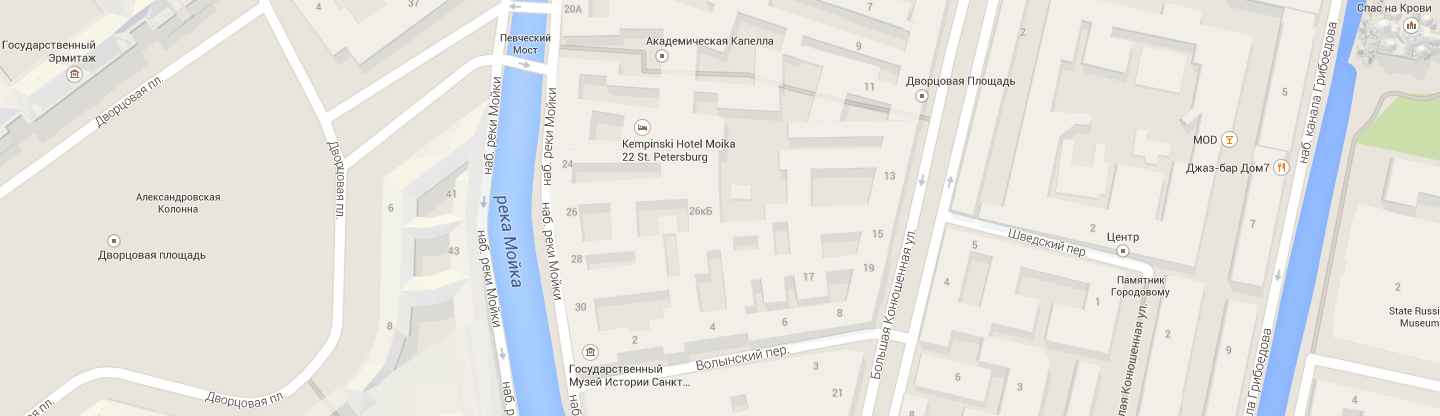
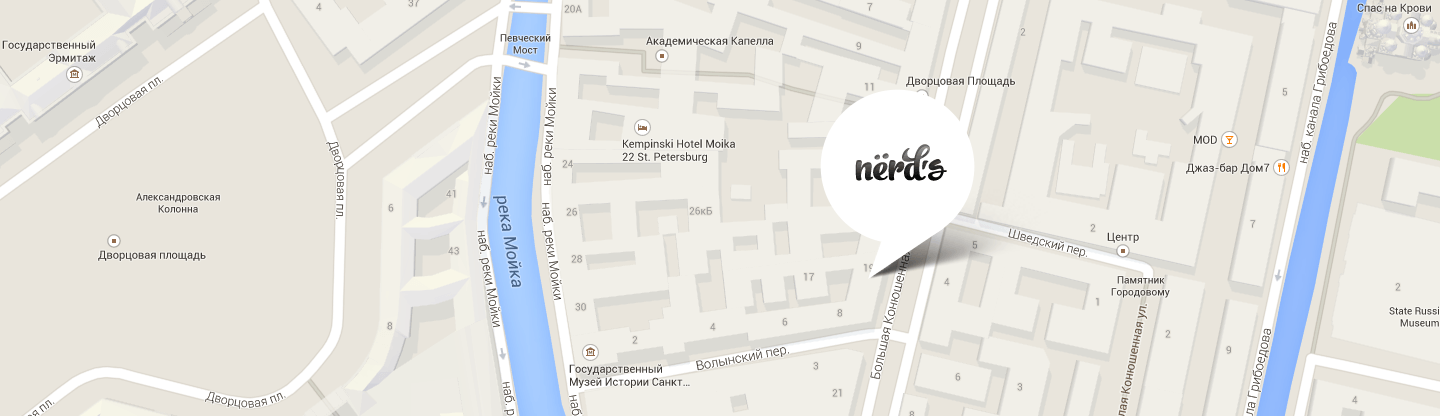
Финальные правки v.7

Changed region(s): [[0.5625, 0.2188, 0.6875, 0.6562]]

diff --git a/catalog.html b/catalog.html
@@ -10,11 +10,9 @@
   <body>
     <header class="page-header">
       <nav class="navigation">
-        <div class="navigation-logo">
-          <a class="navigation-logo__link" href="index.html">
-            <img src="img/svg/nerds-logo.svg" width="160" height="65" alt="Логотип Дизайн-студии «Нёрдс»">
-          </a>
-        </div>
+        <a class="navigation-logo__link" href="index.html">
+          <img src="img/svg/nerds-logo.svg" width="160" height="65" alt="Логотип Дизайн-студии «Нёрдс»">
+        </a>
         <ul class="navigation__list">
           <li class="navigation__item"><a class="navigation__link" href="">Студия</a></li>
           <li class="navigation__item"><a class="navigation__link" href="">Клиенты</a></li>
@@ -201,6 +199,14 @@
 
         <h2 class="visually-hidden">Контактная информация</h2>
         
+        <div class="contacts__map-container">
+          <img src="img/map/map.png" width="1440" height="416" alt="Дизайн-студия NЁRDS расположена по адресу г. Санкт-Петербург, ул. Б. Конюшенная, д. 19/8">
+        </div>
+
+        <iframe class="contacts__map" src="https://www.google.com/maps/embed?pb=!1m18!1m12!1m3!1d1998.6037872533248!2d30.320858716177124!3d59.93871648187619!2m3!1f0!2f0!3f0!3m2!1i1024!2i768!4f13.1!3m3!1m2!1s0x4696310fca145cc1%3A0x42b32648d8238007!2z0JHQvtC70YzRiNCw0Y8g0JrQvtC90Y7RiNC10L3QvdCw0Y8g0YPQuy4sIDE5LzgsINCh0LDQvdC60YIt0J_QtdGC0LXRgNCx0YPRgNCzLCAxOTExODY!5e0!3m2!1sru!2sru!4v1581432568932!5m2!1sru!2sru" 
+        allowfullscreen="">
+        </iframe>
+
         <div class="container">
           <div class="contacts__container">
             <div class="feedback">
@@ -211,12 +217,7 @@
               <a class="button feedback__button" href="">Напишите нам</a>
             </div>
           </div> 
-        </div>
-        
-        <iframe class="map" src="https://www.google.com/maps/embed?pb=!1m18!1m12!1m3!1d1998.6037872533248!2d30.320858716177124!3d59.93871648187619!2m3!1f0!2f0!3f0!3m2!1i1024!2i768!4f13.1!3m3!1m2!1s0x4696310fca145cc1%3A0x42b32648d8238007!2z0JHQvtC70YzRiNCw0Y8g0JrQvtC90Y7RiNC10L3QvdCw0Y8g0YPQuy4sIDE5LzgsINCh0LDQvdC60YIt0J_QtdGC0LXRgNCx0YPRgNCzLCAxOTExODY!5e0!3m2!1sru!2sru!4v1581432568932!5m2!1sru!2sru" 
-        allowfullscreen="">
-        </iframe>
-        <img class="visually-hidden map-img" src="img/map.png" alt="Дизайн-студия NЁRDS расположена по адресу г. Санкт-Петербург, ул. Б. Конюшенная, д. 19/8">
+        </div> 
       </section>
     </main>
     <!-- Footer - Подвал -->
@@ -225,19 +226,18 @@
         <p class="prompt__appeal">Давайте дружить, это выгодно!</p>
         <p class="prompt__discount">Скидка 10% для друзей из социальных сетей.</p>
       </div>
-      <div class="socials">
-        <ul class="socials__list">
-          <li class="socials__item">
-            <a class="socials__link socials__link--vk" href=""></a>
-          </li>
-          <li class="socials__item">
-            <a class="socials__link socials__link--fb" href=""></a>
-          </li>
-          <li class="socials__item">
-            <a class="socials__link socials__link--insta" href=""></a>
-          </li>
-        </ul>
-      </div>
+
+      <ul class="socials__list">
+        <li class="socials__item">
+          <a class="socials__link socials__link--vk" href=""></a>
+        </li>
+        <li class="socials__item">
+          <a class="socials__link socials__link--fb" href=""></a>
+        </li>
+        <li class="socials__item">
+          <a class="socials__link socials__link--insta" href=""></a>          
+        </li>
+      </ul>
     </footer>
     <!-- Popup - Модальное окно -->
     <section class="popup">

diff --git a/index.html b/index.html
@@ -10,11 +10,9 @@
   <body>
     <header class="page-header">
       <nav class="navigation">
-        <div class="navigation-logo">
-          <a class="navigation-logo__link" href="index.html">
-            <img src="img/svg/nerds-logo.svg" width="160" height="65" alt="Логотип Дизайн-студии «Нёрдс»">
-          </a>
-        </div>
+        <a class="navigation-logo__link" href="index.html">
+          <img src="img/svg/nerds-logo.svg" width="160" height="65" alt="Логотип Дизайн-студии «Нёрдс»">
+        </a>
         <ul class="navigation__list">
           <li class="navigation__item"><a class="navigation__link" href="">Студия</a></li>
           <li class="navigation__item"><a class="navigation__link" href="">Клиенты</a></li>
@@ -153,6 +151,14 @@
 
         <h2 class="visually-hidden">Контактная информация</h2>
 
+        <div class="contacts__map-container">
+          <img src="img/map/map.png" width="1440" height="416" alt="Дизайн-студия NЁRDS расположена по адресу г. Санкт-Петербург, ул. Б. Конюшенная, д. 19/8">
+        </div>
+
+        <iframe class="contacts__map" src="https://www.google.com/maps/embed?pb=!1m18!1m12!1m3!1d1998.6037872533248!2d30.320858716177124!3d59.93871648187619!2m3!1f0!2f0!3f0!3m2!1i1024!2i768!4f13.1!3m3!1m2!1s0x4696310fca145cc1%3A0x42b32648d8238007!2z0JHQvtC70YzRiNCw0Y8g0JrQvtC90Y7RiNC10L3QvdCw0Y8g0YPQuy4sIDE5LzgsINCh0LDQvdC60YIt0J_QtdGC0LXRgNCx0YPRgNCzLCAxOTExODY!5e0!3m2!1sru!2sru!4v1581432568932!5m2!1sru!2sru" 
+        allowfullscreen="">
+        </iframe>
+
         <div class="container">
           <div class="contacts__container">
             <div class="feedback">
@@ -163,12 +169,7 @@
               <a class="button feedback__button" href="">Напишите нам</a>
             </div>
           </div> 
-        </div>
-        
-        <iframe class="map" src="https://www.google.com/maps/embed?pb=!1m18!1m12!1m3!1d1998.6037872533248!2d30.320858716177124!3d59.93871648187619!2m3!1f0!2f0!3f0!3m2!1i1024!2i768!4f13.1!3m3!1m2!1s0x4696310fca145cc1%3A0x42b32648d8238007!2z0JHQvtC70YzRiNCw0Y8g0JrQvtC90Y7RiNC10L3QvdCw0Y8g0YPQuy4sIDE5LzgsINCh0LDQvdC60YIt0J_QtdGC0LXRgNCx0YPRgNCzLCAxOTExODY!5e0!3m2!1sru!2sru!4v1581432568932!5m2!1sru!2sru" 
-        allowfullscreen="">
-        </iframe>
-        <img class="visually-hidden" src="img/map.png" alt="Дизайн-студия NЁRDS расположена по адресу г. Санкт-Петербург, ул. Б. Конюшенная, д. 19/8">
+        </div> 
       </section>
     </main>
     <!-- Footer - Подвал -->
@@ -177,19 +178,17 @@
         <p class="prompt__appeal">Давайте дружить, это выгодно!</p>
         <p class="prompt__discount">Скидка 10% для друзей из социальных сетей.</p>
       </div>
-      <div class="socials">
-        <ul class="socials__list">
-          <li class="socials__item">
-            <a class="socials__link socials__link--vk" href=""></a>
-          </li>
-          <li class="socials__item">
-            <a class="socials__link socials__link--fb" href=""></a>
-          </li>
-          <li class="socials__item">
-            <a class="socials__link socials__link--insta" href=""></a>
-          </li>
-        </ul>
-      </div>
+      <ul class="socials__list">
+        <li class="socials__item">
+          <a class="socials__link socials__link--vk" href=""></a>
+        </li>
+        <li class="socials__item">
+          <a class="socials__link socials__link--fb" href=""></a>
+        </li>
+        <li class="socials__item">
+          <a class="socials__link socials__link--insta" href=""></a>          
+        </li>
+      </ul>
     </footer> 
     <!-- Popup - Модальное окно -->
     <section class="popup">

diff --git a/css/style.css b/css/style.css
@@ -654,6 +654,11 @@ margin-left: 100px;
   padding-top: 43px;
 }
 
+.statistics__percent sup {
+  font-size: 25px;
+  top: -16px;
+}
+
 .statistics__desc {
   font-size: 16px;
   line-height: 18px;
@@ -734,8 +739,34 @@ margin-left: 100px;
 
 /* Contacts - Контактная информация */
 .contacts {
+  min-width: 1200px;
   height: 416px;
   margin: 0;
+}
+
+.contacts__map-container {
+  display: inline-block;
+  position: absolute;
+
+  width: 100%;
+  height: 416px;
+  
+  vertical-align: middle;
+  text-align: center;
+
+  overflow: hidden;
+}
+
+.contacts__map {
+  display: inline-block;
+  position: absolute;
+
+  width: 100%;
+  height: 416px;
+
+  border: 0;
+  vertical-align: middle;
+  text-align: center;
 }
 
 .contacts__container {
@@ -799,17 +830,6 @@ margin-left: 100px;
   padding-right: 5px;
 }
 
-.map {
-  width: 100%;
-  height: 416px;
-  border: 0;
-}
-
-.map-img {
-  width: 100%;
-  height: 416px;
-}
-
 /* Footer - Подвал */
 
 .page-footer {
@@ -827,11 +847,6 @@ margin-left: 100px;
   margin-left: auto;
   padding-top: 69px;
   padding-bottom: 59px;
-}
-
-.socials {
-  margin: 0;
-  margin-left: 15px;
 }
 
 .prompt {
@@ -873,6 +888,7 @@ margin-left: 100px;
   list-style: none;
 
   margin: 0;
+  margin-left: 15px;
   padding: 0;
 }
 
@@ -927,9 +943,13 @@ margin-left: 100px;
   background-color: #e74246;
 }
 
+.socials__link:active::after {
+  opacity: 0.3;
+}
+
 .socials__link:active {
   background-color: #d7373b;
-  opacity: 0.3;
+  box-shadow: inset 0 3px 0 0 rgba(0,1,1,.1)
 }
 
 /* Catalog.index - Магазин */
@@ -1064,7 +1084,7 @@ margin-left: 100px;
 
   width: 80px;
   margin-left: 8px;
-  padding: 10px 5px;
+  padding: 10px 0px;
   padding-left: 14px; 
   
   border: none;
